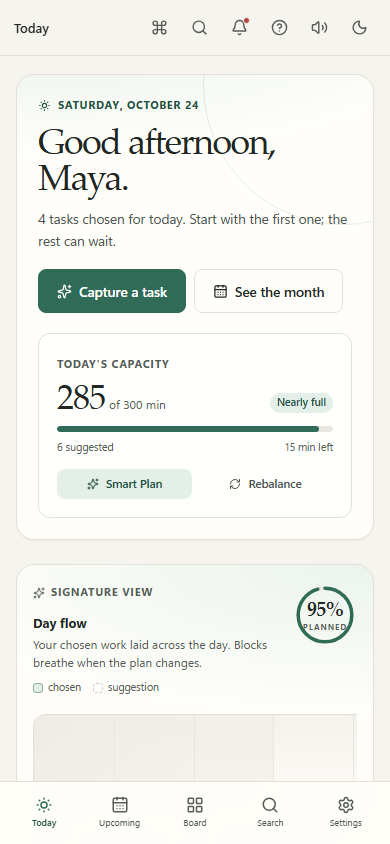
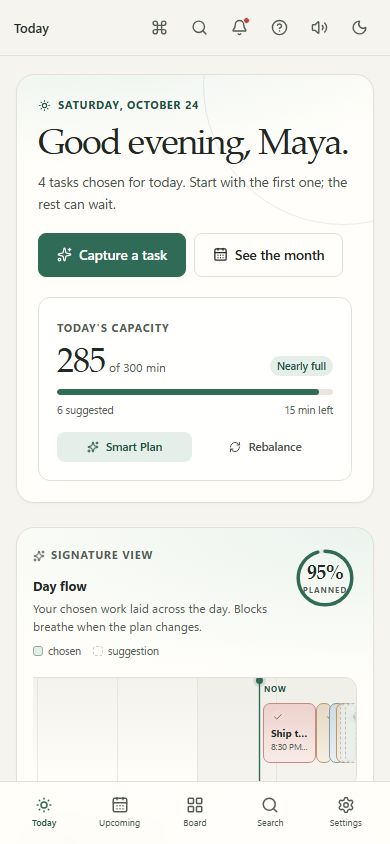
fix: keep dates and board counts consistent across locales

diff --git a/components/time-views.tsx b/components/time-views.tsx
@@ -4,8 +4,8 @@ import { useCallback, useEffect, useMemo, useState } from "react";
 import { ArrowRight, CalendarDays, ChevronLeft, ChevronRight, Clock3, Plus, SunMedium } from "lucide-react";
 import { EmptyState, PriorityBadge } from "@/components/ui";
 import { api, formatApiError } from "@/lib/client";
-import { formatTime, parseDateOnly, priorityLabel } from "@/lib/format";
-import type { Task, UpcomingPayload, Workspace } from "@/lib/types";
+import { appLocale, formatTime, parseDateOnly } from "@/lib/format";
+import type { UpcomingPayload, Workspace } from "@/lib/types";
 
 export function UpcomingView({ workspace, refreshKey, onOpenTask, onQuickCapture }: {
   workspace: Workspace;
@@ -62,8 +62,8 @@ export function UpcomingView({ workspace, refreshKey, onOpenTask, onQuickCapture
             return (
               <section className="upcoming-day" key={date}>
                 <div className="upcoming-day-label">
-                  <strong>{isToday ? "Today" : parsed.toLocaleDateString(undefined, { day: "numeric" })}</strong>
-                  {parsed.toLocaleDateString(undefined, { weekday: "long", month: "short" })}
+                  <strong>{isToday ? "Today" : parsed.toLocaleDateString(appLocale(), { day: "numeric" })}</strong>
+                  {parsed.toLocaleDateString(appLocale(), { weekday: "long", month: "short" })}
                   <div style={{ color: "var(--faint)", marginTop: 3 }}>{tasks.length} task{tasks.length === 1 ? "" : "s"}</div>
                 </div>
                 <div className="upcoming-tasks">
@@ -83,7 +83,7 @@ export function UpcomingView({ workspace, refreshKey, onOpenTask, onQuickCapture
             );
           })}
           <div className="inline" style={{ marginTop: 20 }}>
-            <span className="field-hint">Showing tasks due through {parseDateOnly(data?.end ?? "").toLocaleDateString(undefined, { month: "long", day: "numeric" })}. Overdue work lives in Today and Search.</span>
+            <span className="field-hint">Showing tasks due through {parseDateOnly(data?.end ?? "").toLocaleDateString(appLocale(), { month: "long", day: "numeric" })}. Overdue work lives in Today and Search.</span>
             <button type="button" className="btn ghost sm" onClick={() => setDays((value) => (value === 14 ? 30 : 14))}>Change range <ArrowRight size={12} /></button>
           </div>
         </div>
@@ -136,13 +136,15 @@ export function CalendarView({ workspace, refreshKey, weekStartsOn, onOpenTask, 
     });
   }, [month, weekStartsOn]);
   const weekdayLabels = useMemo(() => {
-    const names = ["Sun", "Mon", "Tue", "Wed", "Thu", "Fri", "Sat"];
-    return Array.from({ length: 7 }, (_, index) => names[(weekStartsOn + index) % 7]);
+    const formatter = new Intl.DateTimeFormat(appLocale(), { weekday: "short" });
+    return Array.from({ length: 7 }, (_, index) =>
+      formatter.format(new Date(2024, 0, 7 + weekStartsOn + index, 12)),
+    );
   }, [weekStartsOn]);
 
   const todayKey = `${now.getFullYear()}-${String(now.getMonth() + 1).padStart(2, "0")}-${String(now.getDate()).padStart(2, "0")}`;
   const selectedTasks = selected ? data?.byDate[selected] ?? [] : [];
-  const monthLabel = new Date(Number(month.slice(0, 4)), Number(month.slice(5, 7)) - 1, 1).toLocaleDateString(undefined, { month: "long", year: "numeric" });
+  const monthLabel = new Date(Number(month.slice(0, 4)), Number(month.slice(5, 7)) - 1, 1).toLocaleDateString(appLocale(), { month: "long", year: "numeric" });
 
   function shift(delta: number) {
     const [year, monthNumber] = month.split("-").map(Number);
@@ -179,7 +181,7 @@ export function CalendarView({ workspace, refreshKey, weekStartsOn, onOpenTask, 
           <div className="calendar-grid">
             {cells.map((cell) => {
               const tasks = data?.byDate[cell.key] ?? [];
-              const dayLabel = cell.date.toLocaleDateString(undefined, { weekday: "long", month: "long", day: "numeric" });
+              const dayLabel = cell.date.toLocaleDateString(appLocale(), { weekday: "long", month: "long", day: "numeric" });
               return (
                 <div
                   key={cell.key}
@@ -216,7 +218,7 @@ export function CalendarView({ workspace, refreshKey, weekStartsOn, onOpenTask, 
         <aside className="today-side calendar-side">
           <div className="card side-card">
             <div className="section-head" style={{ marginBottom: 8 }}>
-              <h2 className="section-title">{selected ? parseDateOnly(selected).toLocaleDateString(undefined, { weekday: "long", month: "long", day: "numeric" }) : "Pick a day"}</h2>
+              <h2 className="section-title">{selected ? parseDateOnly(selected).toLocaleDateString(appLocale(), { weekday: "long", month: "long", day: "numeric" }) : "Pick a day"}</h2>
             </div>
             {selected ? (
               selectedTasks.length ? (

diff --git a/lib/format.ts b/lib/format.ts
@@ -12,12 +12,17 @@ export function memberName(member: { name?: string | null; email?: string | null
 
 const DAY_MS = 86_400_000;
 
-function uiLocale(): string | undefined {
-  if (typeof window === "undefined") return undefined;
+/**
+ * Dates follow the app's language, not the operating system. Without this,
+ * an English UI on a Traditional Chinese machine renders dates such as
+ * "10月24日星期六" beside English labels.
+ */
+export function appLocale(): string {
+  if (typeof window === "undefined") return "en-US";
   try {
-    return localStorage.getItem("drift-locale") === "zh-TW" ? "zh-TW" : undefined;
+    return localStorage.getItem("drift-locale") === "zh-TW" ? "zh-TW" : "en-US";
   } catch {
-    return undefined;
+    return "en-US";
   }
 }
 
@@ -36,7 +41,7 @@ function capitalize(value: string): string {
 }
 
 function relativeDay(diff: number): string {
-  return capitalize(new Intl.RelativeTimeFormat(uiLocale(), { numeric: "auto" }).format(diff, "day"));
+  return capitalize(new Intl.RelativeTimeFormat(appLocale(), { numeric: "auto" }).format(diff, "day"));
 }
 
 export function startOfDay(value: Date): Date {
@@ -49,14 +54,14 @@ export function formatDate(value: string | Date | null | undefined, options: Int
   if (!value) return "";
   const date = typeof value === "string" ? new Date(value) : value;
   if (Number.isNaN(date.getTime())) return "";
-  return new Intl.DateTimeFormat(uiLocale(), options).format(date);
+  return new Intl.DateTimeFormat(appLocale(), options).format(date);
 }
 
 export function formatTime(value: string | Date | null | undefined): string {
   if (!value) return "";
   const date = typeof value === "string" ? new Date(value) : value;
   if (Number.isNaN(date.getTime())) return "";
-  return new Intl.DateTimeFormat(uiLocale(), { hour: "numeric", minute: "2-digit", ...timeFormatOptions() }).format(date);
+  return new Intl.DateTimeFormat(appLocale(), { hour: "numeric", minute: "2-digit", ...timeFormatOptions() }).format(date);
 }
 
 export function formatDue(value: string | Date | null | undefined, allDay = true): string {
@@ -71,9 +76,9 @@ export function formatDue(value: string | Date | null | undefined, allDay = true
   if (diff === -1) return relativeDay(-1);
   if (diff < -1 && diff >= -7) return relativeDay(diff);
   if (diff > 1 && diff < 7) {
-    return new Intl.DateTimeFormat(uiLocale(), { weekday: "long", ...(allDay ? {} : { hour: "numeric", minute: "2-digit", ...timeFormatOptions() }) }).format(date);
+    return new Intl.DateTimeFormat(appLocale(), { weekday: "long", ...(allDay ? {} : { hour: "numeric", minute: "2-digit", ...timeFormatOptions() }) }).format(date);
   }
-  return new Intl.DateTimeFormat(uiLocale(), {
+  return new Intl.DateTimeFormat(appLocale(), {
     month: "short",
     day: "numeric",
     ...(date.getFullYear() !== today.getFullYear() ? { year: "numeric" } : {}),

diff --git a/components/day-flow.tsx b/components/day-flow.tsx
@@ -1,6 +1,6 @@
 "use client";
 
-import { useEffect, useMemo, useState, type DragEvent } from "react";
+import { useEffect, useMemo, useRef, useState, type DragEvent } from "react";
 import { Check, Clock3, Play, RefreshCw, Sparkles, Timer } from "lucide-react";
 import { playSound } from "@/lib/sound";
 import { useI18n } from "@/lib/i18n";
@@ -61,6 +61,8 @@ export function DayFlow({ tasks, capacity, busy, note, workdayStart, workdayEnd,
   const [anchorMinutes] = useState(() => Math.max(6 * 60, roundUp(minutesOfDay(new Date()), 15)));
   const [draggingId, setDraggingId] = useState<string | null>(null);
   const [laterOver, setLaterOver] = useState(false);
+  const railWrapRef = useRef<HTMLDivElement | null>(null);
+  const didScrollRail = useRef(false);
 
   useEffect(() => {
     const timer = window.setInterval(() => setNow(new Date()), 60_000);
@@ -92,6 +94,17 @@ export function DayFlow({ tasks, capacity, busy, note, workdayStart, workdayEnd,
   );
 
   const nowMinutes = minutesOfDay(now);
+
+  useEffect(() => {
+    if (didScrollRail.current) return;
+    const wrap = railWrapRef.current;
+    if (!wrap || wrap.scrollWidth <= wrap.clientWidth + 1) return;
+    const focusMinutes = blocks[0]?.start ?? nowMinutes;
+    const target = (focusMinutes / DAY_MINUTES) * wrap.scrollWidth - wrap.clientWidth / 2;
+    wrap.scrollLeft = Math.max(0, Math.min(wrap.scrollWidth - wrap.clientWidth, target));
+    didScrollRail.current = true;
+  }, [blocks, nowMinutes]);
+
   const rawPercent = capacity.totalMinutes > 0 ? (capacity.selectedMinutes / capacity.totalMinutes) * 100 : 0;
   const ringPercent = Math.min(100, Math.max(0, rawPercent));
   const over = capacity.overbooked;
@@ -148,7 +161,7 @@ export function DayFlow({ tasks, capacity, busy, note, workdayStart, workdayEnd,
         </div>
       </div>
 
-      <div className="day-flow-rail-wrap">
+      <div className="day-flow-rail-wrap" ref={railWrapRef}>
         <div className="day-flow-rail" role="group" aria-label="A 24 hour timeline of today's selected tasks">
           <div className="day-flow-grid" aria-hidden>
             {workdayStart > 0 ? (

diff --git a/tests/e2e/core.spec.ts b/tests/e2e/core.spec.ts
@@ -75,6 +75,28 @@ test("AC-001/AC-002: keyboard move, undo, persistence, and accessible announceme
   await expect(page.getByRole("region", { name: /^In progress/ }).getByRole("button", { name: new RegExp(title) })).toBeVisible();
 });
 
+test("the Done column counts completed cards", async ({ page }) => {
+  const title = uniqueTitle("done count");
+  await openApp(page);
+  await capture(page, title);
+  const board = await openBoard(page);
+  const card = board.getByRole("button", { name: new RegExp(title) });
+  await expect(card).toBeVisible();
+
+  await card.focus();
+  await page.keyboard.press("Alt+ArrowRight");
+  await expect(page.getByText(`Moved ${title} to In progress.`)).toBeAttached();
+  await expect(page.getByRole("region", { name: /^In progress/ }).getByRole("button", { name: new RegExp(title) })).toBeVisible();
+  const inProgressCard = page.getByRole("region", { name: /^In progress/ }).getByRole("button", { name: new RegExp(title) });
+  await inProgressCard.focus();
+  await page.keyboard.press("Alt+ArrowRight");
+  await expect(page.getByText(`Moved ${title} to Done.`)).toBeAttached();
+
+  const done = page.getByRole("region", { name: /^Done/ });
+  await expect(done.getByRole("button", { name: new RegExp(title) })).toBeVisible();
+  await expect(done.locator(".column-count")).toHaveText("1");
+});
+
 test("search is instant, scoped, and filterable", async ({ page }) => {
   const title = uniqueTitle("search needle");
   await openApp(page);

diff --git a/components/board-view.tsx b/components/board-view.tsx
@@ -365,6 +365,7 @@ export function BoardView({ workspace, boardId, refreshKey, timeZone, currentUse
           {columns.map((column) => {
             const list = grouped.get(column.id) ?? [];
             const open = list.filter((task) => !task.completedAt).length;
+            const columnCount = column.isDone ? list.length : open;
             const wipOver = Boolean(column.wipEnforced && column.wipLimit && open > column.wipLimit);
             const wipNear = Boolean(column.wipEnforced && column.wipLimit && open === column.wipLimit);
             return (
@@ -378,7 +379,7 @@ export function BoardView({ workspace, boardId, refreshKey, timeZone, currentUse
                   <span className={`column-dot${column.isDone ? " done" : ""}`} aria-hidden />
                   <h2 className="column-title">
                     {column.name}
-                    <span className="column-count">{open}</span>
+                    <span className="column-count">{columnCount}</span>
                     {column.wipEnforced && column.wipLimit ? <span className={`wip-label${wipOver ? " rose" : ""}`}>WIP {open}/{column.wipLimit}</span> : null}
                   </h2>
                   <div className="column-head-actions">

diff --git a/components/today-view.tsx b/components/today-view.tsx
@@ -7,7 +7,7 @@ import { DayFlow } from "@/components/day-flow";
 import { SmartPlanModal, type SmartPlanPreview } from "@/components/smart-plan";
 import { useToast } from "@/components/toast";
 import { api, formatApiError } from "@/lib/client";
-import { formatDue, memberName } from "@/lib/format";
+import { formatDate, formatDue, memberName } from "@/lib/format";
 import { playSound } from "@/lib/sound";
 import { translateReason, useI18n } from "@/lib/i18n";
 import type { Preferences } from "@/lib/preferences";
@@ -206,7 +206,7 @@ export function TodayView({ workspace, refreshKey, userName, preferences, onOpen
     }
   }
 
-  const todayLabel = new Date().toLocaleDateString(preferences.locale === "zh-TW" ? "zh-TW" : undefined, { weekday: "long", month: "long", day: "numeric" });
+  const todayLabel = formatDate(new Date(), { weekday: "long", month: "long", day: "numeric" });
   const capacityPercent = data ? Math.min(100, Math.round((data.capacity.selectedMinutes / Math.max(1, data.capacity.totalMinutes)) * 100)) : 0;
   const over = data?.capacity.overbooked ?? false;
   const acceptedCount = data?.suggestions.filter((task) => task.accepted).length ?? 0;

diff --git a/components/insights-view.tsx b/components/insights-view.tsx
@@ -110,8 +110,8 @@ function TimelinePanel({ data, timeZone, days, onDays, onOpenTask }: {
               <div className="timeline-dates" aria-hidden>
                 {dates.map((date, index) => (
                   <span key={date} className={index === 0 ? "today" : ""}>
-                    <strong>{index === 0 ? "Today" : parseDateOnly(date).toLocaleDateString(undefined, { weekday: "short" })}</strong>
-                    <small>{parseDateOnly(date).toLocaleDateString(undefined, { month: "short", day: "numeric" })}</small>
+                    <strong>{index === 0 ? "Today" : formatDate(parseDateOnly(date), { weekday: "short" })}</strong>
+                    <small>{formatDate(parseDateOnly(date), { month: "short", day: "numeric" })}</small>
                   </span>
                 ))}
               </div>

diff --git a/components/app-root.tsx b/components/app-root.tsx
@@ -816,7 +816,7 @@ export function AppRoot() {
                       <strong style={{ fontSize: 12.5, overflow: "hidden", textOverflow: "ellipsis", whiteSpace: "nowrap" }}>{write.label}</strong>
                     </div>
                     <div className="field-hint" style={{ marginTop: 4 }}>
-                      {write.kind.replace(".", " · ")} · {new Date(write.createdAt).toLocaleString()}
+                      {write.kind.replace(".", " · ")} · {formatDate(write.createdAt, { month: "short", day: "numeric", hour: "numeric", minute: "2-digit" })}
                       {write.error ? ` — ${write.error}` : ""}
                     </div>
                   </div>

diff --git a/tests/unit/format.test.ts b/tests/unit/format.test.ts
@@ -1,0 +1,10 @@
+import { describe, expect, it } from "vitest";
+import { appLocale, formatDate, formatTime } from "@/lib/format";
+
+describe("date formatting follows the app language", () => {
+  it("defaults to English on the server, regardless of the OS locale", () => {
+    expect(appLocale()).toBe("en-US");
+    expect(formatDate("2026-10-24T12:00:00", { month: "short", day: "numeric" })).toBe("Oct 24");
+    expect(formatTime("2026-10-24T18:00:00")).toBe("6:00 PM");
+  });
+});

diff --git a/PROGRESS.md b/PROGRESS.md
@@ -9,8 +9,9 @@ This is an independent clone for a school-demo extension. `ProjectA` remains the
 - **Added:** Day Flow (24-hour rail, stable anchor, drag-to-Later), Smart Plan (local-rules preview, apply, undo), Focus Mode (timer, completion, `actualMinutes`), Sound Lab (three synthesized palettes, volume, mute, optional typing), voice capture with a text fallback, and a real Settings experience (appearance, typography, motion, language/region preview, planning, focus, notifications, sound, keyboard, features).
 - **Data:** nullable `Task.actualMinutes`, migration `20261024140000_task_actual_minutes`; new `UserSettings` personalization fields and migration `20261024180000_settings_experience`; validation, API serialization, exports, and Focus persistence.
 - **Honesty boundary:** Smart Plan is labeled local rules, not AI; no model call is made. Voice uses the browser speech service and is disclosed in the capture modal. Language is a preview: core planning and Settings are translated; workspace admin remains English.
-- **Last verified commands:** `npm run typecheck` pass; `npm run lint` 0 errors / 42 baseline warnings; `npm test` **90/90** in 12 files; `npm run build` pass; Playwright **26/26** journeys across Chromium, Firefox, and WebKit (**78 executions**); axe serious/critical 0 on the checked settings sections and core pages.
-- **New A2 journeys:** appearance/persistence, system theme, capacity/week start effects, language persistence, rapid notification queueing, feature toggles, focus/capture defaults, workday/plan buffer/start view, save failure rollback, settings search/mobile navigation, plus the four original A2 journeys.
+- **Last verified commands:** `npm run typecheck` pass; `npm run lint` 0 errors / 40 baseline warnings; `npm test` **91/91** in 13 files; `npm run build` pass; Playwright **27/27** journeys across Chromium, Firefox, and WebKit (**81 executions**); axe serious/critical 0 on the checked settings sections and core pages.
+- **Interface fixes:** date/time formatting now follows the app language instead of the OS locale; the Done column count includes completed cards; mobile Day Flow starts near the current block instead of the empty morning rail.
+- **New A2 journeys:** appearance/persistence, system theme, capacity/week start effects, language persistence, rapid notification queueing, feature toggles, focus/capture defaults, workday/plan buffer/start view, save failure rollback, settings search/mobile navigation, Done-column count, plus the four original A2 journeys.
 - **Screenshots:** `docs/screenshots/10-day-flow.png` through `23-dark-appearance.png`.
 - **Open items:** human listening pass for the sound palettes; real-microphone testing across browsers; Smart Plan remains deterministic and non-learning; Day Flow has no manual block resizing; language preview does not yet cover every admin/enterprise string.
 - **Delivery:** [`docs/A2_EXPERIMENT.md`](docs/A2_EXPERIMENT.md), [`docs/SETTINGS.md`](docs/SETTINGS.md), and [`docs/DEMO.md`](docs/DEMO.md).
@@ -80,8 +81,8 @@ Documentation now covers architecture, flows, design, motion, accessibility, sec
 | `build-output.txt` | Production build route table |
 | `typecheck-output.txt` | Strict TypeScript result |
 | `lint-output.txt` | ESLint result and warnings |
-| `test-output.txt` | Vitest **90/90** (A2 run) |
-| `e2e-output.txt` | Playwright **26 journeys × 3 engines = 78 executions** (A2 run) |
+| `test-output.txt` | Vitest **91/91** (A2 run) |
+| `e2e-output.txt` | Playwright **27 journeys × 3 engines = 81 executions** (A2 run) |
 | `perf-output.txt` | Baseline v1.3 Lighthouse run log; not re-run after the A2 UI additions |
 | `screenshots-output.txt` | Baseline screenshot capture log; A2 states captured separately |
 | `migrate-output.txt` | Prisma migrate deploy result |

diff --git a/docs/TESTING.md b/docs/TESTING.md
@@ -8,10 +8,10 @@
 | Layer | Tool | Result | Evidence |
 |---|---|---|---|
 | Type safety | `tsc --noEmit` (strict) | Pass, 0 errors | `typecheck-output.txt` |
-| Lint | ESLint 9 + Next config | Pass, 0 errors, 42 triaged warnings | `lint-output.txt` |
-| Unit | Vitest 5 | **90/90** in 12 files (ProjectA2 included) | `test-output.txt` |
+| Lint | ESLint 9 + Next config | Pass, 0 errors, 40 triaged warnings | `lint-output.txt` |
+| Unit | Vitest 5 | **91/91** in 13 files (ProjectA2 included) | `test-output.txt` |
 | Production build | `next build` | Pass, 44 static pages + route table | `build-output.txt` |
-| End-to-end | Playwright 1.64 (Chromium, Firefox, WebKit) | **26/26** journeys, 78 executions | `e2e-output.txt` |
+| End-to-end | Playwright 1.64 (Chromium, Firefox, WebKit) | **27/27** journeys, 81 executions | `e2e-output.txt` |
 | Accessibility | axe-core via Playwright | 0 serious/critical on Today, Board, Insights, all checked Settings sections, both auth states | included in E2E run |
 | Performance | Lighthouse 13.5 | 94/97/95 performance latest; 100 accessibility | `docs/performance/summary.json` |
 | Dependencies | `npm audit --omit=dev --audit-level=high` | 0 high/critical | final QA output |
@@ -37,6 +37,7 @@ npm test
 | `tests/unit/webhooks.test.ts` | Orphaned delivery stops retrying instead of crashing the job |
 | `tests/unit/preferences.test.ts` | Defaults, clamping, feature JSON, theme resolution, locale time previews |
 | `tests/unit/i18n.test.ts` | Dictionary completeness, fallback, placeholders, planner-reason translation |
+| `tests/unit/format.test.ts` | App-language dates/time, preventing OS-locale leakage |
 
 The AI evaluation is a fixture-based regression test, not a model benchmark. It asserts exact parses and plan ordering for 40 scenarios total. See [AI_GOVERNANCE.md](AI_GOVERNANCE.md).
 
@@ -81,8 +82,9 @@ Playwright starts a dev server on port 3100 only when `E2E_BASE_URL` is unset. U
 | 24 | `settings-experience.spec.ts` | A2 planning effects | Workday shading, plan buffer, block buffer, and start view reach Today |
 | 25 | `settings-experience.spec.ts` | A2 save failure | Failed save shows error, rolls back, and re-reads server state |
 | 26 | `settings-experience.spec.ts` | A2 settings UX | Search works and mobile uses the section picker |
+| 27 | `core.spec.ts` | A2 board count | A completed card in Done updates the visible column count |
 
-The suite is serial (`workers: 1`) because it shares one SQLite database and creates workspaces. Tests use unique names/emails to avoid collisions. The A2 voice journey uses a fake `SpeechRecognition`; a real-microphone pass remains manual. The default Playwright config runs the same 26 journeys on Chromium, Firefox, and WebKit (78 executions). `E2E=true` also raises the request-rate ceiling for the test harness; it does not bypass authorization or CSRF.
+The suite is serial (`workers: 1`) because it shares one SQLite database and creates workspaces. Tests use unique names/emails to avoid collisions. The A2 voice journey uses a fake `SpeechRecognition`; a real-microphone pass remains manual. The default Playwright config runs the same 27 journeys on Chromium, Firefox, and WebKit (81 executions). `E2E=true` also raises the request-rate ceiling for the test harness; it does not bypass authorization or CSRF.
 
 ## 4. Accessibility testing
 
@@ -161,4 +163,4 @@ npm run test:perf
 npm run audit
 ```
 
-Expected: typecheck clean, lint 0 errors, 90 unit tests pass, build succeeds, 26 journeys × 3 engines (78 executions) pass, Lighthouse accessibility 100, audit 0 high/critical.
+Expected: typecheck clean, lint 0 errors, 91 unit tests pass, build succeeds, 27 journeys × 3 engines (81 executions) pass, Lighthouse accessibility 100, audit 0 high/critical.
